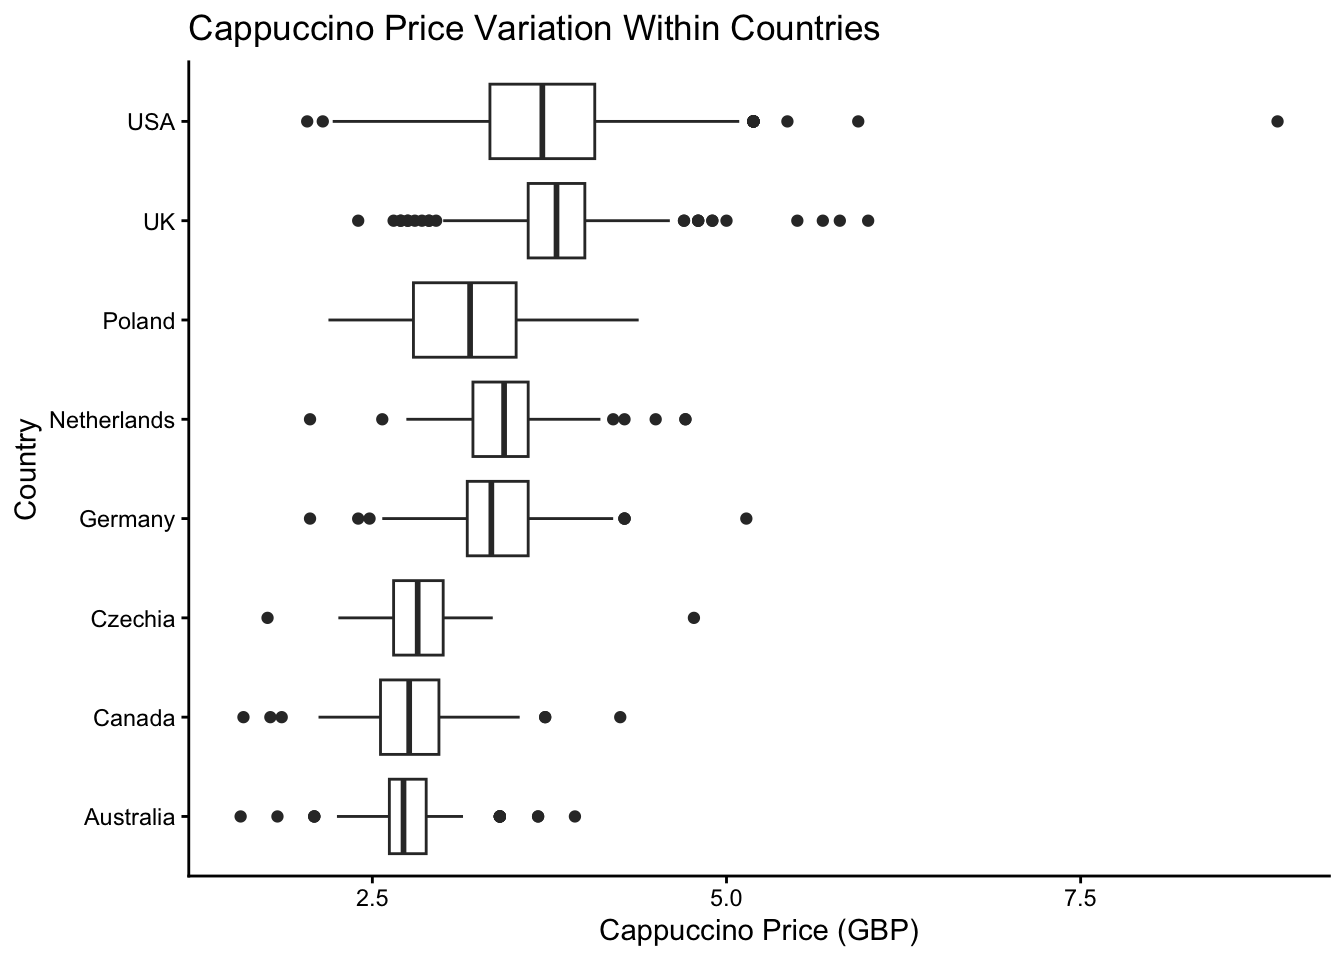
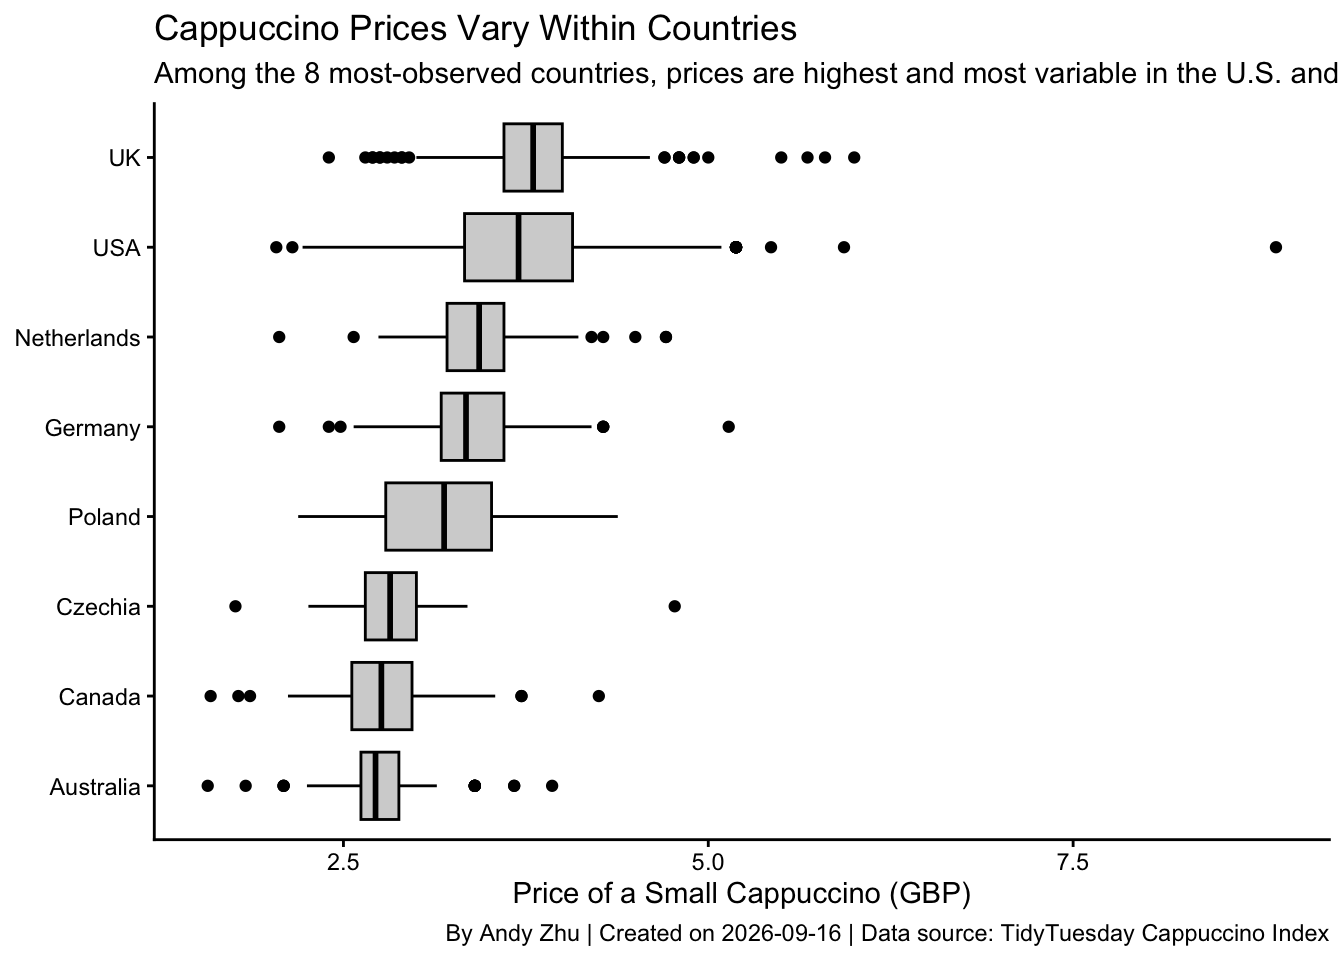
Built site for gh-pages

diff --git a/tt/hw01-tt.html b/tt/hw01-tt.html
@@ -363,10 +363,10 @@ cookieconsent.run({
 <span id="cb4-5"><a href="#cb4-5"></a></span>
 <span id="cb4-6"><a href="#cb4-6"></a>cafe <span class="sc">%&gt;%</span></span>
 <span id="cb4-7"><a href="#cb4-7"></a>  <span class="fu">filter</span>(country <span class="sc">%in%</span> top_countries) <span class="sc">%&gt;%</span></span>
-<span id="cb4-8"><a href="#cb4-8"></a>  <span class="fu">ggplot</span>(<span class="fu">aes</span>(<span class="at">x =</span> country, <span class="at">y =</span> price_gbp)) <span class="sc">+</span></span>
-<span id="cb4-9"><a href="#cb4-9"></a>  <span class="fu">geom_boxplot</span>() <span class="sc">+</span></span>
+<span id="cb4-8"><a href="#cb4-8"></a>  <span class="fu">ggplot</span>(<span class="fu">aes</span>(<span class="at">x =</span> <span class="fu">fct_reorder</span>(country, price_gbp, <span class="at">.fun =</span> median), <span class="at">y =</span> price_gbp)) <span class="sc">+</span></span>
+<span id="cb4-9"><a href="#cb4-9"></a>  <span class="fu">geom_boxplot</span>(<span class="at">fill =</span> <span class="st">"lightgray"</span>, <span class="at">color =</span> <span class="st">"black"</span>) <span class="sc">+</span></span>
 <span id="cb4-10"><a href="#cb4-10"></a>  <span class="fu">coord_flip</span>() <span class="sc">+</span></span>
-<span id="cb4-11"><a href="#cb4-11"></a>  <span class="fu">labs</span>(<span class="at">x =</span> <span class="st">"Country"</span>, <span class="at">y =</span> <span class="st">"Cappuccino Price (GBP)"</span>, <span class="at">title =</span> <span class="st">"Cappuccino Price Variation Within Countries"</span>) <span class="sc">+</span></span>
+<span id="cb4-11"><a href="#cb4-11"></a>  <span class="fu">labs</span>(<span class="at">title =</span> <span class="st">"Cappuccino Prices Vary Within Countries"</span>, <span class="at">subtitle =</span> <span class="st">"Among the 8 most-observed countries, prices are highest and most variable in the U.S. and U.K."</span>, <span class="at">x =</span> <span class="cn">NULL</span>, <span class="at">y =</span> <span class="st">"Price of a Small Cappuccino (GBP)"</span>, <span class="at">caption =</span> <span class="st">"By Andy Zhu | Created on 2026-09-16 | Data source: TidyTuesday Cappuccino Index"</span>) <span class="sc">+</span></span>
 <span id="cb4-12"><a href="#cb4-12"></a>  <span class="fu">theme_classic</span>()</span></code><button title="Copy to Clipboard" class="code-copy-button"><i class="bi"></i></button></pre></div>
 </details><div class="cell-output-display">
 <div>
@@ -1071,10 +1071,10 @@ window.document.addEventListener("DOMContentLoaded", function (event) {
 <span id="cb5-69"><a href="#cb5-69"></a></span>
 <span id="cb5-70"><a href="#cb5-70"></a>cafe <span class="sc">%&gt;%</span></span>
 <span id="cb5-71"><a href="#cb5-71"></a>  <span class="fu">filter</span>(country <span class="sc">%in%</span> top_countries) <span class="sc">%&gt;%</span></span>
-<span id="cb5-72"><a href="#cb5-72"></a>  <span class="fu">ggplot</span>(<span class="fu">aes</span>(<span class="at">x =</span> country, <span class="at">y =</span> price_gbp)) <span class="sc">+</span></span>
-<span id="cb5-73"><a href="#cb5-73"></a>  <span class="fu">geom_boxplot</span>() <span class="sc">+</span></span>
+<span id="cb5-72"><a href="#cb5-72"></a>  <span class="fu">ggplot</span>(<span class="fu">aes</span>(<span class="at">x =</span> <span class="fu">fct_reorder</span>(country, price_gbp, <span class="at">.fun =</span> median), <span class="at">y =</span> price_gbp)) <span class="sc">+</span></span>
+<span id="cb5-73"><a href="#cb5-73"></a>  <span class="fu">geom_boxplot</span>(<span class="at">fill =</span> <span class="st">"lightgray"</span>, <span class="at">color =</span> <span class="st">"black"</span>) <span class="sc">+</span></span>
 <span id="cb5-74"><a href="#cb5-74"></a>  <span class="fu">coord_flip</span>() <span class="sc">+</span></span>
-<span id="cb5-75"><a href="#cb5-75"></a>  <span class="fu">labs</span>(<span class="at">x =</span> <span class="st">"Country"</span>, <span class="at">y =</span> <span class="st">"Cappuccino Price (GBP)"</span>, <span class="at">title =</span> <span class="st">"Cappuccino Price Variation Within Countries"</span>) <span class="sc">+</span></span>
+<span id="cb5-75"><a href="#cb5-75"></a>  <span class="fu">labs</span>(<span class="at">title =</span> <span class="st">"Cappuccino Prices Vary Within Countries"</span>, <span class="at">subtitle =</span> <span class="st">"Among the 8 most-observed countries, prices are highest and most variable in the U.S. and U.K."</span>, <span class="at">x =</span> <span class="cn">NULL</span>, <span class="at">y =</span> <span class="st">"Price of a Small Cappuccino (GBP)"</span>, <span class="at">caption =</span> <span class="st">"By Andy Zhu | Created on 2026-09-16 | Data source: TidyTuesday Cappuccino Index"</span>) <span class="sc">+</span></span>
 <span id="cb5-76"><a href="#cb5-76"></a>  <span class="fu">theme_classic</span>()</span>
 <span id="cb5-77"><a href="#cb5-77"></a><span class="in">```</span></span>
 <span id="cb5-78"><a href="#cb5-78"></a>  In some countries, the price of a cappuccino varies significantly, meaning that cafes within the same country do not necessarily charge similar prices. For instance, the US and the UK show a wide price range with several outliers, whereas prices in other countries are relatively clustered. Such disparities indicate that a national average price can mask significant variations among individual cafes within the same country.</span>

diff --git a/index.html b/index.html
@@ -303,7 +303,7 @@ cookieconsent.run({
     <div>
     <div class="quarto-title-meta-heading">Published</div>
     <div class="quarto-title-meta-contents">
-      <p class="date">Friday, September 18, 2026</p>
+      <p class="date">Friday, September 25, 2026</p>
     </div>
   </div>
   
@@ -315,8 +315,8 @@ cookieconsent.run({
 </header><p>Welcome to my online portfolio for COMP/STAT112 course taken at <a href="https://www.macalester.edu/">Macalester College</a>. Please, use the side bar on the left for navigation.</p>
 <div class="cell">
 <div class="cell-output-display">
-<div class="wordcloud2 html-widget html-fill-item" id="htmlwidget-9e2a5f1110fddb327b76" style="width:100%;height:464px;"></div>
-<script type="application/json" data-for="htmlwidget-9e2a5f1110fddb327b76">{"x":{"word":["welcome","to","comp","stat","212","mac","st paul"],"freq":[10,2,8,8,8,6,6],"fontFamily":"Segoe UI","fontWeight":"bold","color":"random-dark","minSize":0,"weightFactor":18,"backgroundColor":"white","gridSize":0,"minRotation":-0.7853981633974483,"maxRotation":0.7853981633974483,"shuffle":true,"rotateRatio":0.4,"shape":"cardioid","ellipticity":0.65,"figBase64":null,"hover":null},"evals":[],"jsHooks":{"render":[{"code":"function(el,x){\n                        console.log(123);\n                        if(!iii){\n                          window.location.reload();\n                          iii = False;\n\n                        }\n  }","data":null}]}}</script>
+<div class="wordcloud2 html-widget html-fill-item" id="htmlwidget-107ff6a8691307dcdd55" style="width:100%;height:464px;"></div>
+<script type="application/json" data-for="htmlwidget-107ff6a8691307dcdd55">{"x":{"word":["welcome","to","comp","stat","212","mac","st paul"],"freq":[10,2,8,8,8,6,6],"fontFamily":"Segoe UI","fontWeight":"bold","color":"random-dark","minSize":0,"weightFactor":18,"backgroundColor":"white","gridSize":0,"minRotation":-0.7853981633974483,"maxRotation":0.7853981633974483,"shuffle":true,"rotateRatio":0.4,"shape":"cardioid","ellipticity":0.65,"figBase64":null,"hover":null},"evals":[],"jsHooks":{"render":[{"code":"function(el,x){\n                        console.log(123);\n                        if(!iii){\n                          window.location.reload();\n                          iii = False;\n\n                        }\n  }","data":null}]}}</script>
 </div>
 </div>
 

diff --git a/404.html b/404.html
@@ -7,7 +7,7 @@
 <meta name="viewport" content="width=device-width, initial-scale=1.0, user-scalable=yes">
 
 
-<title>quarto-inputa56e292d22774163 – COMP/STAT212 Portfolio</title>
+<title>quarto-inputfbfac12af3a62cac – COMP/STAT212 Portfolio</title>
 <style>
 code{white-space: pre-wrap;}
 span.smallcaps{font-variant: small-caps;}
